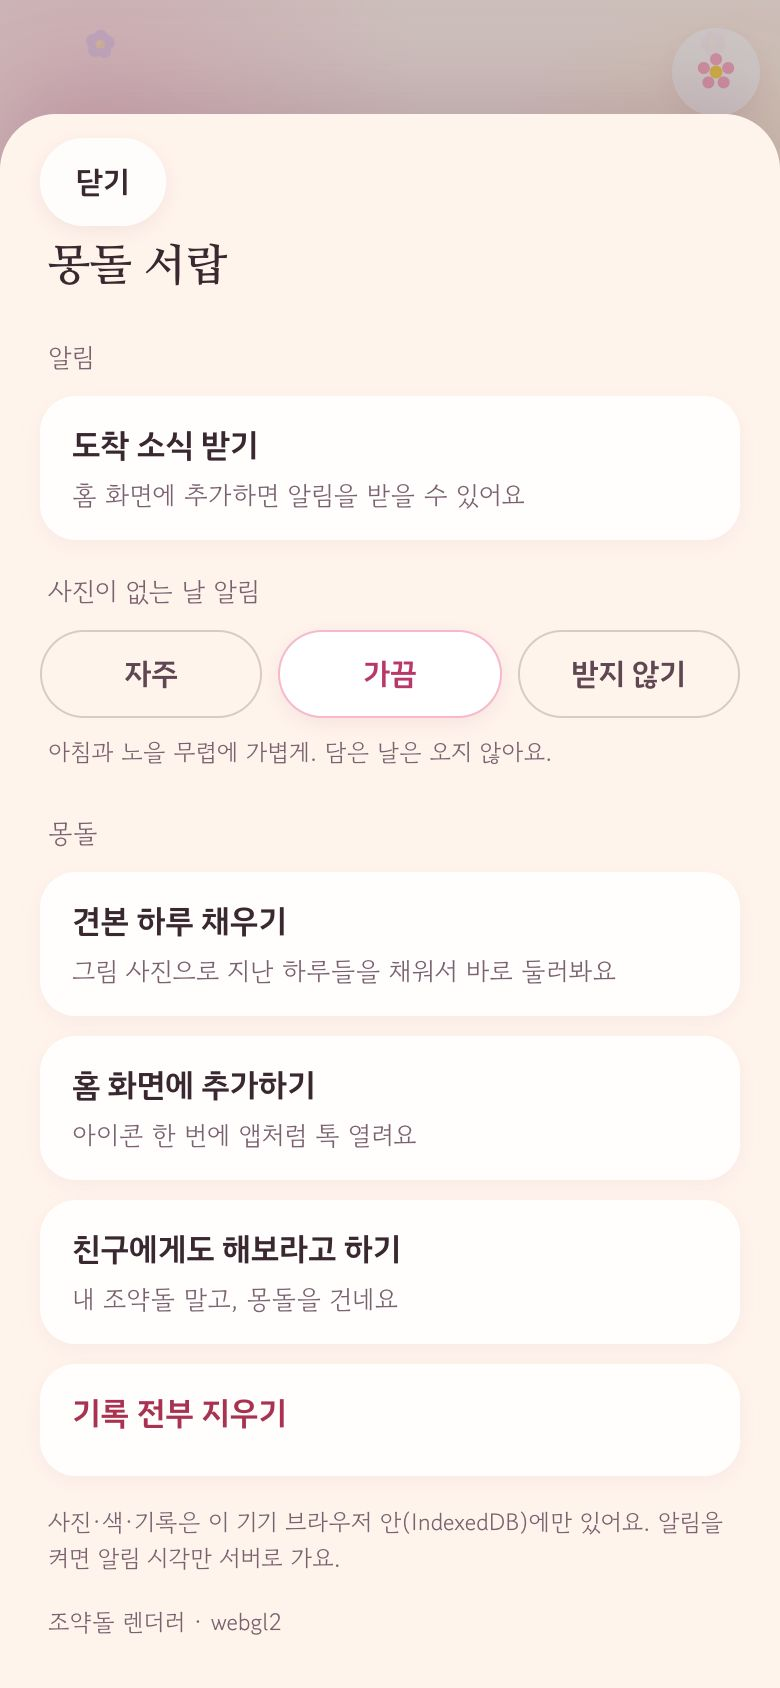
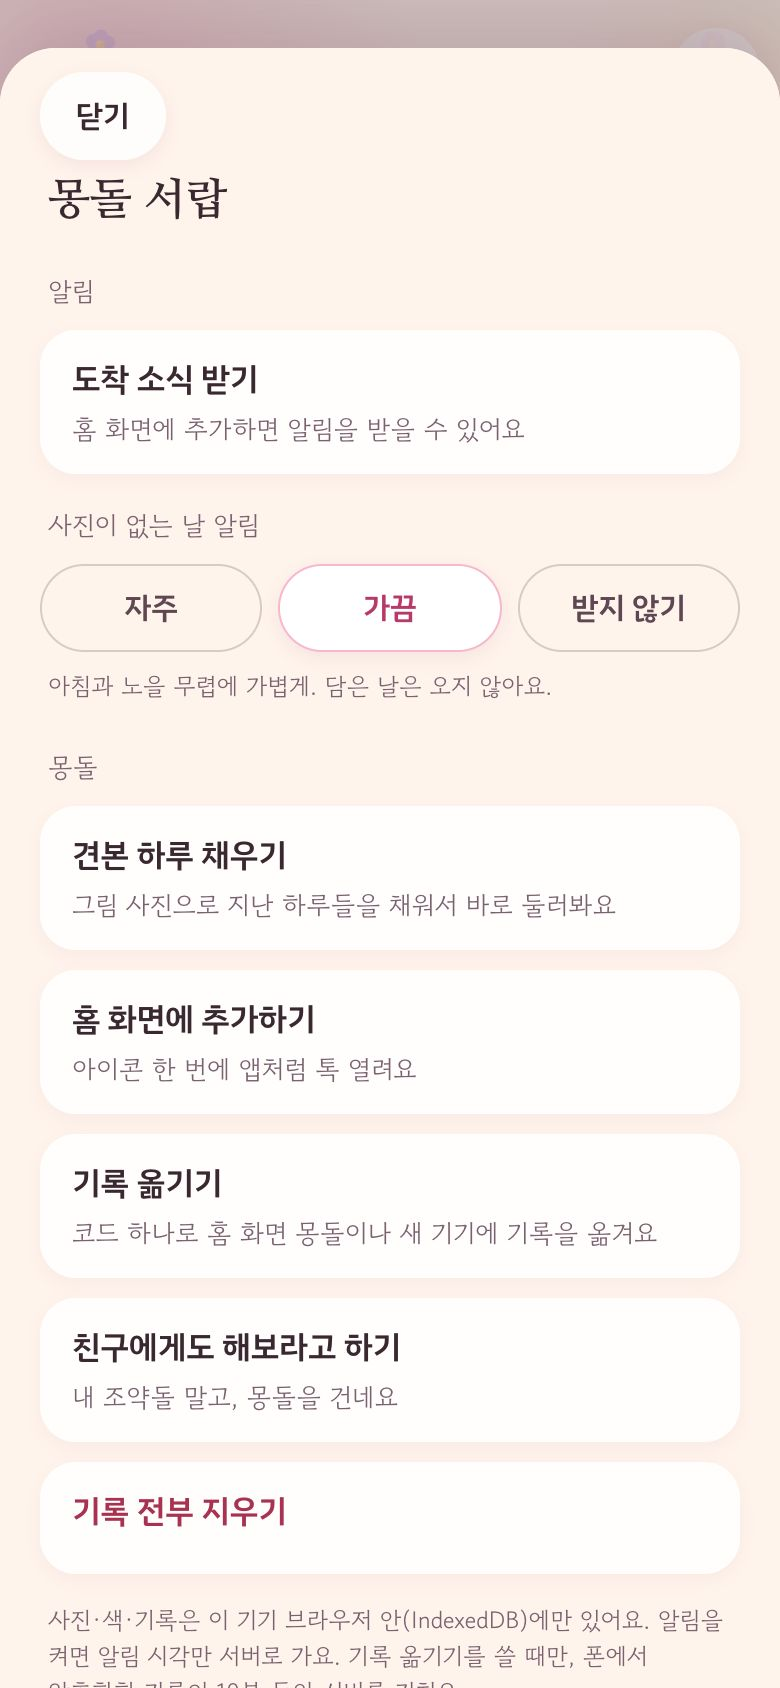
fix(몽돌 웹): 기록 옮기기 — 조회 id 도 PBKDF2 로, 한 번에 100MB 까지
- 조회 id 가 SHA-256 한 번이라 Redis 를 읽는 사람이 8자리 코드를 몇 초 만에 거꾸로 찾아 묶음을 열 수 있었다.
  id 도 PBKDF2(고정 salt, 200,000번)로 만들어 「코드를 모르면 아무도 못 열어요」가 운영자에게도 사실이 되게
- 상한 200MB → 100MB(Tabber 결정) — Upstash 무료 256MB 에서 둘이 동시에 옮겨도 되게

Claude-Session: https://claude.ai/code/session_01331J4DJ2JtS2X2wiBSvqr5

diff --git a/Mongdol-ENFP-Web/js/transfer-core.js b/Mongdol-ENFP-Web/js/transfer-core.js
@@ -4,11 +4,12 @@
 //   머리 = { v:1, moments:[…], meta:{…}, photos:[{ id, full:{type, off, len}|null, thumb:… }] } — off 는 머리 뒤부터 센다.
 // 암호화: key = PBKDF2(코드, 무작위 salt 16바이트, SHA-256, 200,000번) → AES-GCM 256.
 //   묶음을 512KB 씩 잘라 조각마다 따로 잠근다(iv 12바이트 + 암호문·태그). AAD 에 조각 번호·개수를 넣어 순서를 못 바꾸게.
-// 서버 조회 id = hex(SHA-256("mongdol-transfer-id:" + 코드)) — 키와 다른 길로 만든다.
+// 서버 조회 id = hex(PBKDF2(코드, 고정 salt "mongdol-transfer-id-v1", 200,000번)) — 키와 다른 길로.
+// 해시 한 번이면 Redis 를 읽는 사람이 8자리 코드를 몇 초 만에 거꾸로 찾는다. 무겁게 만들어 그 길을 막는다.
 
 export const CHUNK = 512 * 1024;
 export const SEAL = 28;
-export const MAX_SIZE = 200 * 1024 * 1024;
+export const MAX_SIZE = 100 * 1024 * 1024;
 export const ITERATIONS = 200_000;
 export const CODE_LENGTH = 8;
 
@@ -37,7 +38,10 @@ export const isCode = (s) => /^\d{8}$/.test(s);
 const hex = (buf) => [...new Uint8Array(buf)].map((b) => b.toString(16).padStart(2, '0')).join('');
 
 export async function idFor(code) {
-  return hex(await subtle().digest('SHA-256', enc.encode(`mongdol-transfer-id:${code}`)));
+  const base = await subtle().importKey('raw', enc.encode(code), 'PBKDF2', false, ['deriveBits']);
+  const bits = await subtle().deriveBits(
+    { name: 'PBKDF2', salt: enc.encode('mongdol-transfer-id-v1'), iterations: ITERATIONS, hash: 'SHA-256' }, base, 256);
+  return hex(bits);
 }
 
 export async function deriveKey(code, salt) {

diff --git a/Mongdol-ENFP-Web/js/transfer.js b/Mongdol-ENFP-Web/js/transfer.js
@@ -132,7 +132,7 @@ export async function receiveRecords(store, code, onProgress = () => {}) {
 // ── 화면 ──
 
 const SEND_ERR = {
-  'too-big': '기록이 너무 많아서(200MB 넘게) 한 번에 못 옮겨요. 미안해요!',
+  'too-big': '기록이 너무 많아서(100MB 넘게) 한 번에 못 옮겨요. 미안해요!',
   limited: '코드를 너무 여러 번 받았어요. 조금 쉬었다가 다시 해 주세요.',
 };
 const RECV_ERR = {

diff --git a/Mongdol-ENFP-Web/api/_lib/transfer.js b/Mongdol-ENFP-Web/api/_lib/transfer.js
@@ -13,7 +13,7 @@ import { z } from "zod";
 
 export const CHUNK = 512 * 1024;
 export const SEAL = 28;
-export const MAX_SIZE = 200 * 1024 * 1024;
+export const MAX_SIZE = 100 * 1024 * 1024;
 export const MAX_COUNT = Math.ceil(MAX_SIZE / CHUNK);
 export const TTL = 600;
 export const FAIL_LIMIT = 10;

diff --git a/Mongdol-ENFP-Web/README.md b/Mongdol-ENFP-Web/README.md
@@ -70,8 +70,8 @@ Safari 에서 쓰던 기록을 홈 화면 몽돌로(또는 새 기기로) 옮긴
 - 받는 쪽: 온보딩 첫 장 「Safari에서 쓰던 기록 가져오기」(홈 화면 앱이 아니면 「쓰던 기록 가져오기」), 또는 설정 「기록 옮기기 → 코드 입력하기」. 기존 기록과 **합친다**(같은 id 는 건너뜀). 온보딩에서 받으면 견본 제안 없이 바로 홈으로.
 - 묶음: 기록(moments) 전부 + 사진(full·thumb 바이트) + localStorage 표시값 `closures`·`gifted`·`wordRejects`·`didLearnWordReject`·`reminderFrequency`. 안 옮기는 것: `onboarded`(받는 쪽이 정한다), `push.*`(기기마다 다른 구독), `preview.*`(미리 보기).
   닫은 날·받은 날은 이 기기 값이 먼저, 받은 날·단어 거절은 합친다, 빈도는 이 기기에 값이 없을 때만.
-- 암호화(`js/transfer-core.js`): 코드 8자리(`crypto.getRandomValues`) → key = PBKDF2(코드, 무작위 salt 16바이트, SHA-256, 200,000번) → AES-GCM 256. 묶음을 512KB 씩 잘라 조각마다 잠근다(iv 12바이트, AAD = 조각 번호·개수). 서버 조회 id = hex(SHA-256(`"mongdol-transfer-id:"` + 코드)). salt 는 서버에 평문으로 둔다.
-- 서버(`api/transfer.js` · `api/_lib/transfer.js`, `POST {action}`): `start`(id·크기·조각 수·salt, 200MB 넘으면 413, 같은 id 가 살아 있으면 409) → `chunk` × N(올리는 표 `token` 필요, 조각 번호 범위·조각 크기를 정확히 검사) → `finish`(조각이 다 있어야 함, 이때부터 10분) → 받는 쪽 `info`(처음 한 번만 받는 표 `claim` 을 준다 — 두 번째는 410) → `get` × N(**마지막 조각을 주면 전부 지운다**) → `done`(남은 게 있으면 지움).
+- 암호화(`js/transfer-core.js`): 코드 8자리(`crypto.getRandomValues`) → key = PBKDF2(코드, 무작위 salt 16바이트, SHA-256, 200,000번) → AES-GCM 256. 묶음을 512KB 씩 잘라 조각마다 잠근다(iv 12바이트, AAD = 조각 번호·개수). 서버 조회 id = hex(PBKDF2(코드, 고정 salt `mongdol-transfer-id-v1`, 200,000번)) — 해시 한 번이면 Redis 를 읽는 사람이 코드를 거꾸로 찾는다. salt 는 서버에 평문으로 둔다.
+- 서버(`api/transfer.js` · `api/_lib/transfer.js`, `POST {action}`): `start`(id·크기·조각 수·salt, 100MB 넘으면 413(Upstash 무료 256MB 에서 둘이 동시에 옮겨도 되게), 같은 id 가 살아 있으면 409) → `chunk` × N(올리는 표 `token` 필요, 조각 번호 범위·조각 크기를 정확히 검사) → `finish`(조각이 다 있어야 함, 이때부터 10분) → 받는 쪽 `info`(처음 한 번만 받는 표 `claim` 을 준다 — 두 번째는 410) → `get` × N(**마지막 조각을 주면 전부 지운다**) → `done`(남은 게 있으면 지움).
   레이트리밋: 틀린 코드(없는 id·표 틀림·이미 받아 감) IP 당 10분에 10번 · 보내기 시작 IP 당 시간당 10번 · 전체 IP 당 분당 300. Redis 키는 모두 `mongdol:xfer:`.
 - 한계: 코드가 8자리라 서버 Redis 를 읽을 수 있는 사람은 id 에서 코드를 거꾸로 찾을 수 있다(SHA-256 1억 번). 그래서 서버에 오래 두지 않는다(10분, 받으면 바로 지움). Upstash 무료 요금제는 저장 256MB 라 큰 묶음 여럿이 겹치면 못 올릴 수 있다 — 그땐 「다시 해 볼게요」.
 
